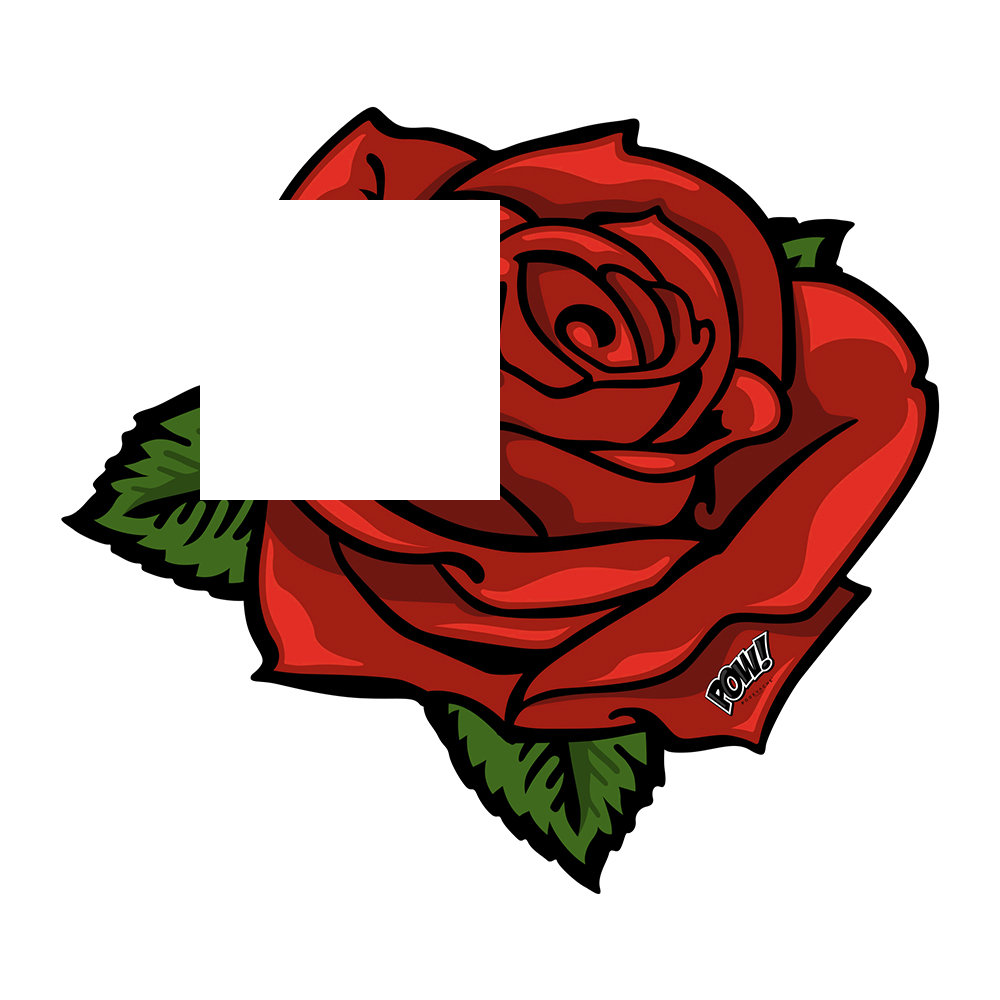
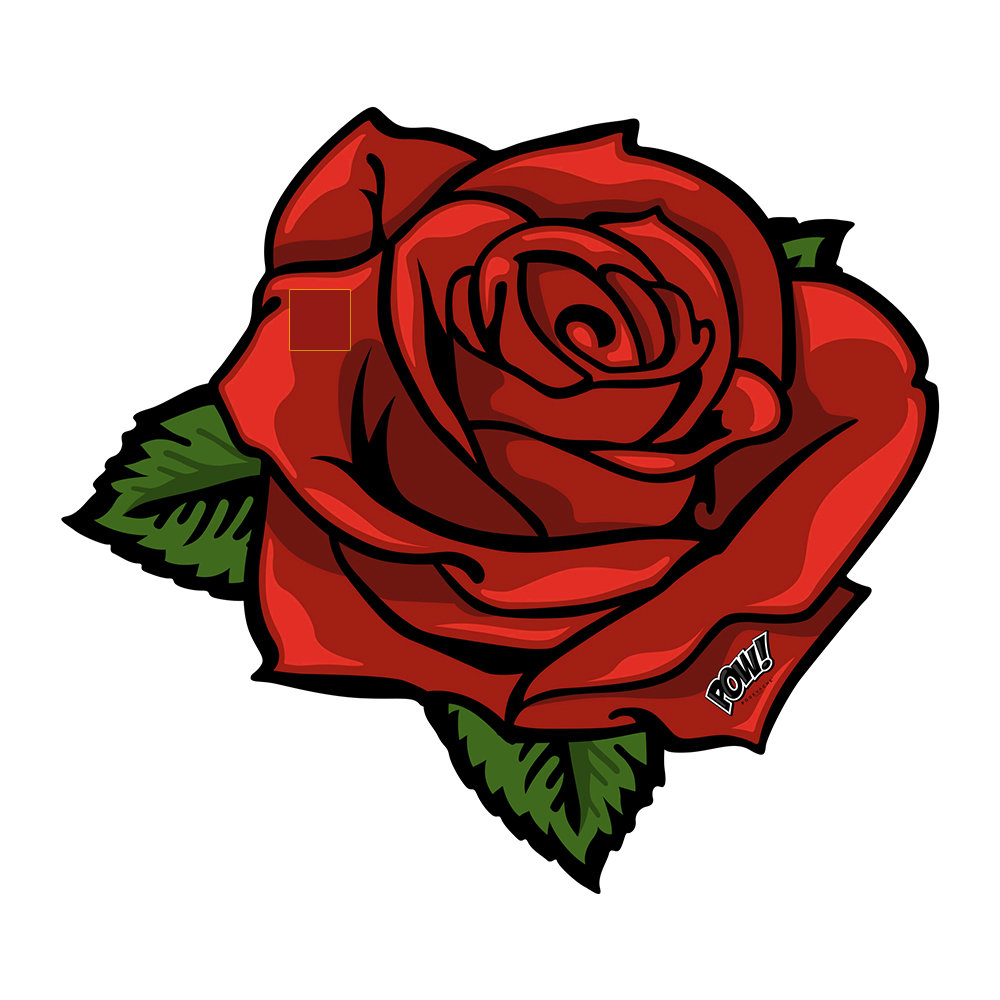
feat(color): produce a rectangle with average color

Changed region(s): [[0.186, 0.186, 0.527, 0.527]]

diff --git a/src/Pixelization.ts b/src/Pixelization.ts
@@ -1,4 +1,4 @@
-import { createCanvas, loadImage, Image } from 'canvas';
+import { createCanvas, loadImage, CanvasRenderingContext2D } from 'canvas';
 import fs from 'fs';
 import Color from 'color';
 
@@ -21,21 +21,58 @@ export class Pixelization {
     this.sourceImagePath = option.sourceImagePath;
   }
 
+  getAverageChunkColor(ctx: CanvasRenderingContext2D, sx: number, sy: number, sw: number, sh: number) {
+    const pixelData = ctx.getImageData(sx, sy, sw - sx, sh - sy);
+    ctx.strokeStyle = "yellow";
+    ctx.strokeRect(sx, sy, sw - sx, sh - sy);
+
+    let averageColor = [pixelData.data[0], pixelData.data[1], pixelData.data[2], pixelData.data[3]];
+    console.log('averageColor', averageColor);
+
+    for (let i = 0; i < pixelData.data.length; i += 4) {
+      const R1 = averageColor[0];
+      const G1 = averageColor[1];
+      const B1 = averageColor[2];
+      const A1 = averageColor[3];
+
+      const R2 = pixelData.data[i];
+      const G2 = pixelData.data[i + 1];
+      const B2 = pixelData.data[i + 2];
+      const A2 = pixelData.data[i + 3];
+
+      averageColor = [
+        Math.sqrt((Math.pow(R1, 2) + Math.pow(R2, 2)) / 2),
+        Math.sqrt((Math.pow(G1, 2) + Math.pow(G2, 2)) / 2),
+        Math.sqrt((Math.pow(B1, 2) + Math.pow(B2, 2)) / 2),
+        Math.sqrt((Math.pow(A1, 2) + Math.pow(A2, 2)) / 2)
+      ];
+
+    }
+
+    // const color = `rgba(${averageColor[0]},${averageColor[1]},${averageColor[2]},${averageColor[3] / 255})`;
+    const color = Color(averageColor);
+    console.log('color : ', color);
+    ctx.fillStyle = color.hex();
+    ctx.fillRect(sx, sy, sw - sx, sh - sy);
+  }
+
   async reduceImage() {
     const inputImage = await loadImage(`${__dirname}/${this.sourceImagePath}`);
-    // const image = jpeg.decode(inputStreamFile);
     const outputStreamFile = fs.createWriteStream(`${__dirname}/graphique.png`);
 
     const canvas = createCanvas(inputImage.width, inputImage.height);
     const ctx = canvas.getContext('2d');
-
+    ctx.patternQuality = 'best';
     ctx.drawImage(inputImage, 0, 0);
-    const white = Color([255, 255, 255]);
+    this.getAverageChunkColor(ctx, 290, 290, 350, 350);
 
-    ctx.fillStyle = white.hex();
-    ctx.rect(200, 200, 300, 300);
 
-    ctx.fill();
+    // const white = Color([255, 255, 255]);
+
+    // ctx.fillStyle = white.hex();
+    // ctx.rect(200, 200, 210, 210);
+
+    // ctx.fill();
     const stream = canvas.createPNGStream();
     stream.pipe(outputStreamFile);
   }
